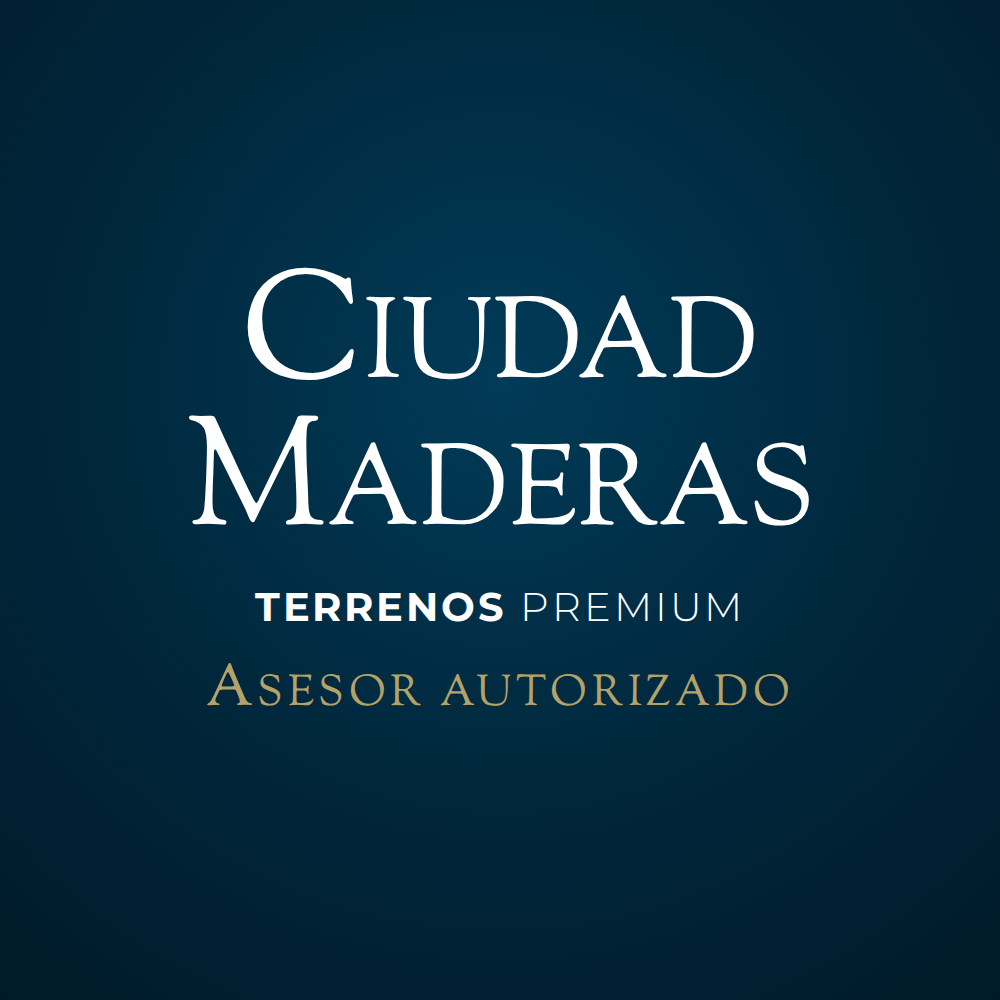
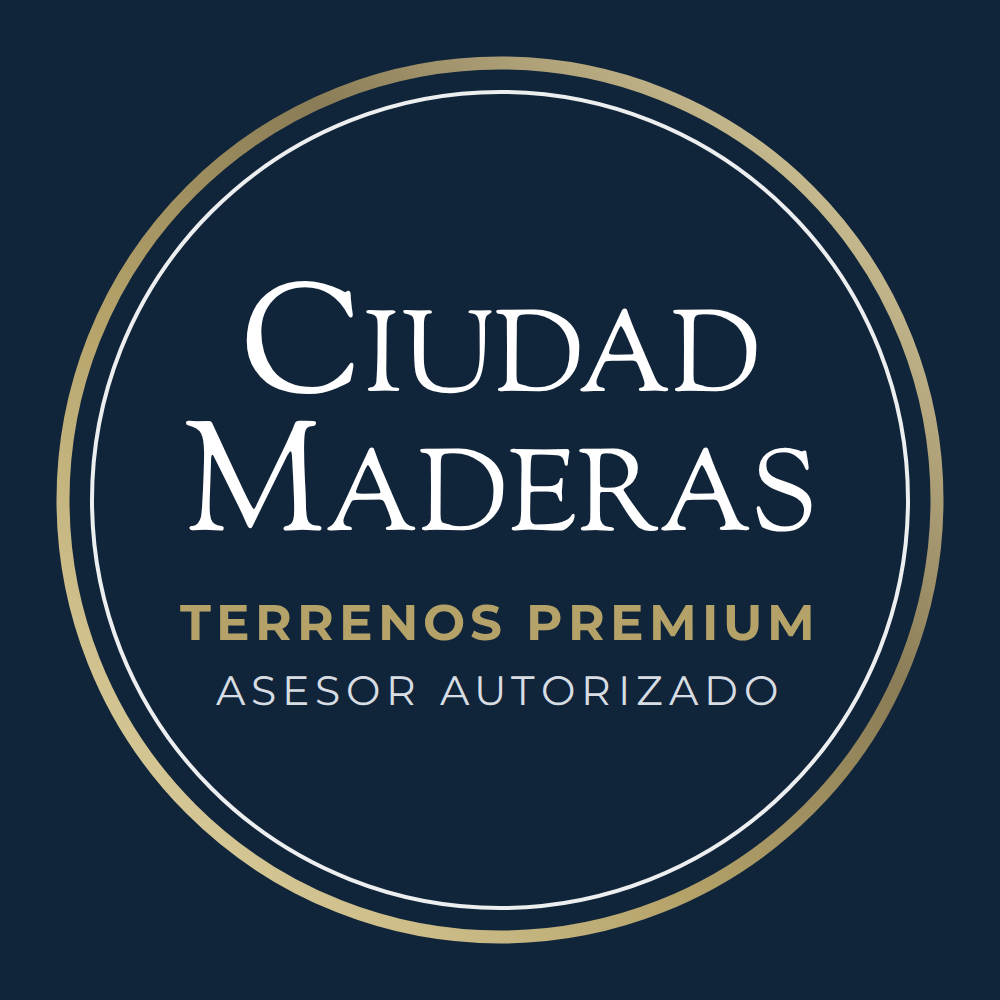
Replica el emblema circular que la marca usa como foto de perfil
El dueño mandó la galería de fotos de perfil de Ciudad Maderas y ahí estaba la
referencia que faltaba: su avatar no es el candado suelto, es un emblema —fondo
navy, aro exterior dorado con degradado metálico, aro interior BLANCO delgado, y
el nombre en serif adentro.

Se reproduce con sus medidas y sus colores muestreados de la imagen (#11253a el
fondo), incluidos los dos renglones de abajo: uno dorado y uno claro. Ahí es
donde cambia lo que tiene que cambiar — ellos ponen "TERRENOS Y CASAS" y
"PREMIUM"; aquí va "TERRENOS PREMIUM", porque el asesor no vende casas, y
"ASESOR AUTORIZADO", que es lo que lo distingue de la desarrolladora.

La primera versión tenía los dos aros dorados y la tipografía chica; comparada
lado a lado con la original se ven las dos diferencias.

Claude-Session: https://claude.ai/code/session_018vHmmmDsoEfgzHDXUQjXcv

Changed region(s): [[0.031, 0.031, 0.961, 0.961], [0.186, 0.248, 0.806, 0.558], [0.186, 0.589, 0.837, 0.713]]

diff --git a/marca/marca.py b/marca/marca.py
@@ -39,7 +39,9 @@ MONT = b64(insumo("mont.woff2"))
 GOUDY = b64(insumo("goudy.woff2"))
 FOTO = b64(insumo("aerea.webp"))
 
-AZUL, AZUL2, ORO = "#00263a", "#001a28", "#b4a269"
+# Muestreados de la foto de perfil real de Ciudad Maderas.
+AZUL, AZUL2, ORO = "#11253a", "#001a28", "#b4a269"
+ORO_OSCURO, ORO_CLARO = "#8a7c56", "#e8dcae"
 
 FUENTES = f"""
 @font-face{{font-family:Mont;src:url(data:font/woff2;base64,{MONT}) format('woff2');font-weight:100 900}}
@@ -50,7 +52,7 @@ FUENTES = f"""
 # más chico. La fuente web no trae versalitas de verdad, así que se arman con
 # dos tamaños — que es exactamente como se ve en su logo original.
 CAJA = """
-.vs{font-family:Goudy,Georgia,serif;color:#fff;line-height:.96;white-space:nowrap}
+.vs{font-family:Goudy,Georgia,serif;color:#fff;line-height:.90;white-space:nowrap}
 .vs i{font-style:normal;font-size:.74em}
 .bajada{font-family:Mont,sans-serif;color:#fff;white-space:nowrap}
 .bajada b{font-weight:700}
@@ -81,11 +83,34 @@ PERFIL = f"""<!doctype html><meta charset="utf-8"><style>
 {FUENTES}{CAJA}
 *{{margin:0;padding:0;box-sizing:border-box}}
 body{{width:1000px;height:1000px;overflow:hidden}}
-.p{{width:1000px;height:1000px;
-    background:radial-gradient(circle at 50% 38%, #013b58 0%, {AZUL} 55%, {AZUL2} 100%);
+.p{{width:1000px;height:1000px;position:relative;background:{AZUL};
     display:flex;flex-direction:column;align-items:center;justify-content:center;text-align:center}}
+.aros{{position:absolute;inset:0}}
+.tx{{position:relative;z-index:2}}
+/* El renglón dorado y el claro debajo son el ritmo del emblema original
+   ("TERRENOS Y CASAS" en dorado, "PREMIUM" en claro). Aquí el segundo renglón
+   dice el rol, que es lo que cambia respecto de la desarrolladora. */
+.producto{{font-family:Mont,sans-serif;font-weight:700;color:{ORO};
+           font-size:50px;letter-spacing:.10em;margin-top:30px}}
+.rol2{{font-family:Mont,sans-serif;font-weight:400;color:#d7dde3;
+       font-size:41px;letter-spacing:.15em;margin-top:12px}}
 </style>
-<div class="p">{candado(escala=1.32, apilado=True)}</div>"""
+<div class="p">
+  <svg class="aros" viewBox="0 0 1000 1000" fill="none">
+    <defs><linearGradient id="oro" x1="0" y1="1" x2="1" y2="0">
+      <stop offset="0" stop-color="{ORO_CLARO}"/><stop offset=".38" stop-color="{ORO}"/>
+      <stop offset=".62" stop-color="{ORO_OSCURO}"/><stop offset="1" stop-color="{ORO_CLARO}"/>
+    </linearGradient></defs>
+    <circle cx="500" cy="500" r="437" stroke="url(#oro)" stroke-width="13"/>
+    <circle cx="500" cy="500" r="408" stroke="#ffffff" stroke-width="4" stroke-opacity=".92"/>
+  </svg>
+  <div class="tx">
+    <div class="vs" style="font-size:154px">C<i>IUDAD</i></div>
+    <div class="vs" style="font-size:154px">M<i>ADERAS</i></div>
+    <div class="producto">TERRENOS PREMIUM</div>
+    <div class="rol2">ASESOR AUTORIZADO</div>
+  </div>
+</div>"""
 
 
 # ── Portada ────────────────────────────────────────────────────────────────

diff --git a/marca/README.md b/marca/README.md
@@ -6,18 +6,19 @@ Las dos imágenes que se suben a la página: `fb-perfil.png` (1000×1000) y
 ## Sin logo propio, a propósito
 
 El asesor **no es la desarrolladora**. Un símbolo inventado compite con la marca
-y confunde a quien pregunta con quién está tratando, así que aquí se reproduce
-el **candado real de Ciudad Maderas**: "CIUDAD MADERAS" en serif con versalitas,
-y debajo "TERRENOS" en negritas junto a "PREMIUM" en delgada.
+y confunde a quien pregunta con quién está tratando.
 
-En el renglón donde la marca pone el nombre del desarrollo —Bosques,
-Corregidora, Península— aquí va **ASESOR AUTORIZADO**, en el mismo serif y en
-dorado. El rol queda dicho en el lugar y con el peso con que la marca nombra a
-sus propias plazas: se lee como parte del sistema, no como un añadido.
+El **perfil** replica el emblema circular que Ciudad Maderas usa como foto de
+perfil: fondo `#11253a` (muestreado de la suya), aro exterior dorado con
+degradado metálico, aro interior blanco delgado, y adentro "CIUDAD MADERAS" en
+serif con versalitas. Debajo va el mismo ritmo de dos renglones que el original
+—uno dorado y uno claro—, pero diciendo lo que aquí sí aplica: **TERRENOS
+PREMIUM** (no "y casas", que el asesor no vende) y **ASESOR AUTORIZADO**.
+
+La **portada** usa el candado horizontal, como el encabezado de su sitio.
 
 Las versalitas se arman con dos tamaños (inicial completa, resto al 74%) porque
-la fuente web no las trae de verdad — que es exactamente como se ve el logo
-original.
+la fuente web no las trae de verdad — que es exactamente como se ve el original.
 
 ## La portada y el celular
 
@@ -28,9 +29,10 @@ las orillas, desaparece justo en el aparato donde casi todos lo van a ver. La
 esquina inferior izquierda se deja vacía a propósito: ahí Facebook encima la
 foto de perfil en computadora.
 
-Un candado de solo texto no se lee a 48 px, que es el tamaño en Messenger. Es el
-costo de no inventar un símbolo, y vale la pena: a ese tamaño Facebook ya
-muestra el nombre de la página al lado.
+A 48 px —el tamaño en Messenger— el emblema se lee como un disco azul con aro
+dorado, igual que el de la desarrolladora. Es el costo de no inventar un
+símbolo, y vale la pena: a ese tamaño Facebook ya muestra el nombre de la
+página al lado.
 
 ## Rehacerlas
 
